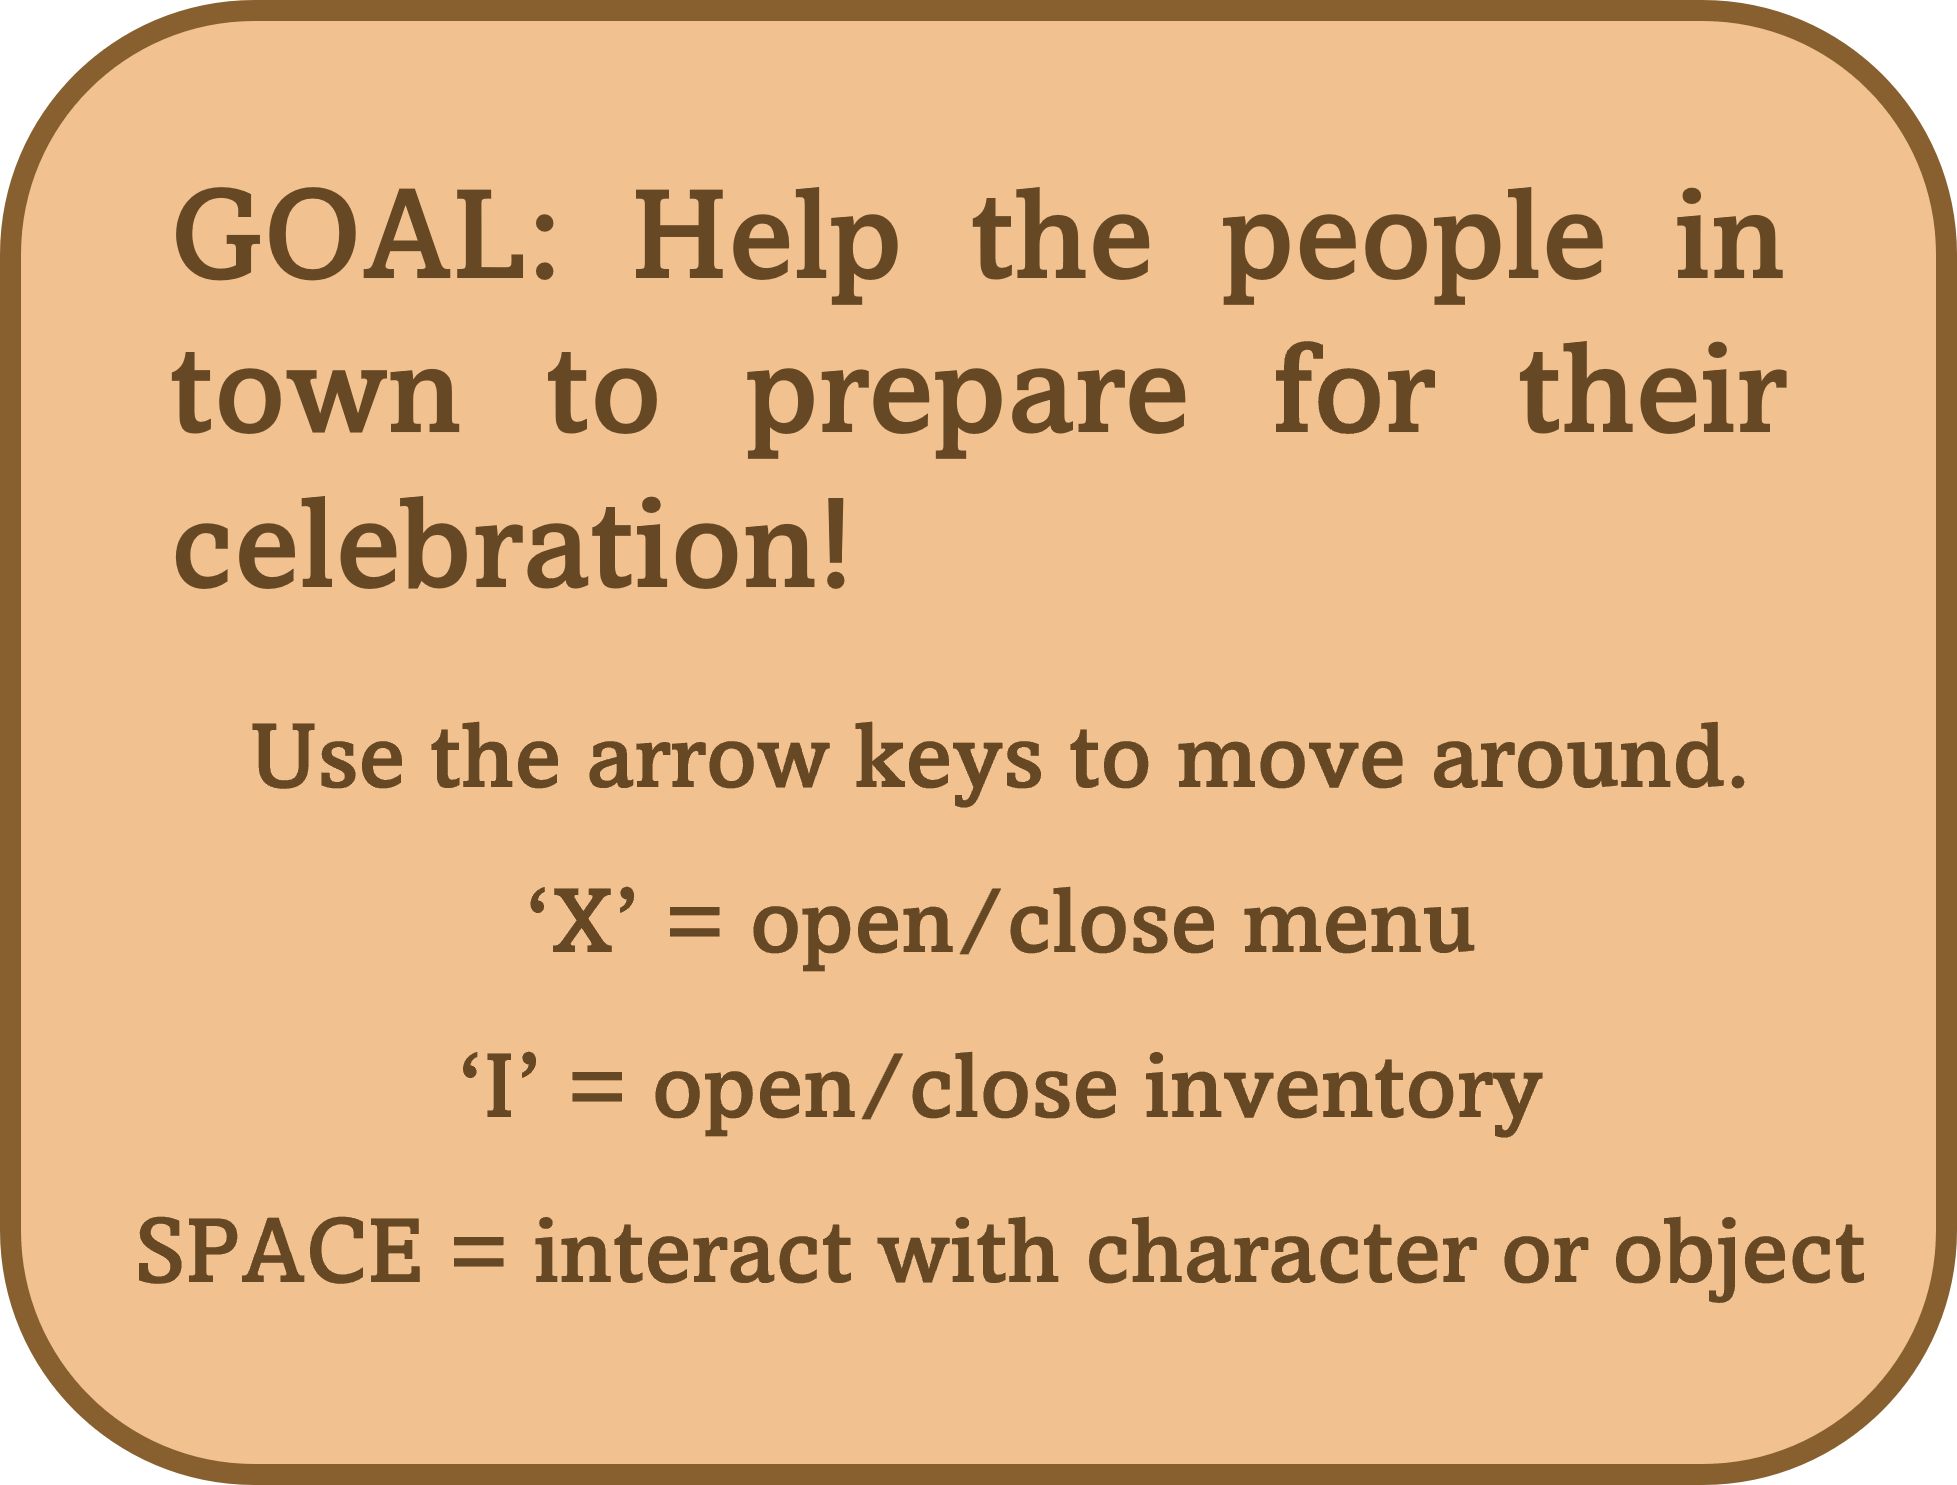
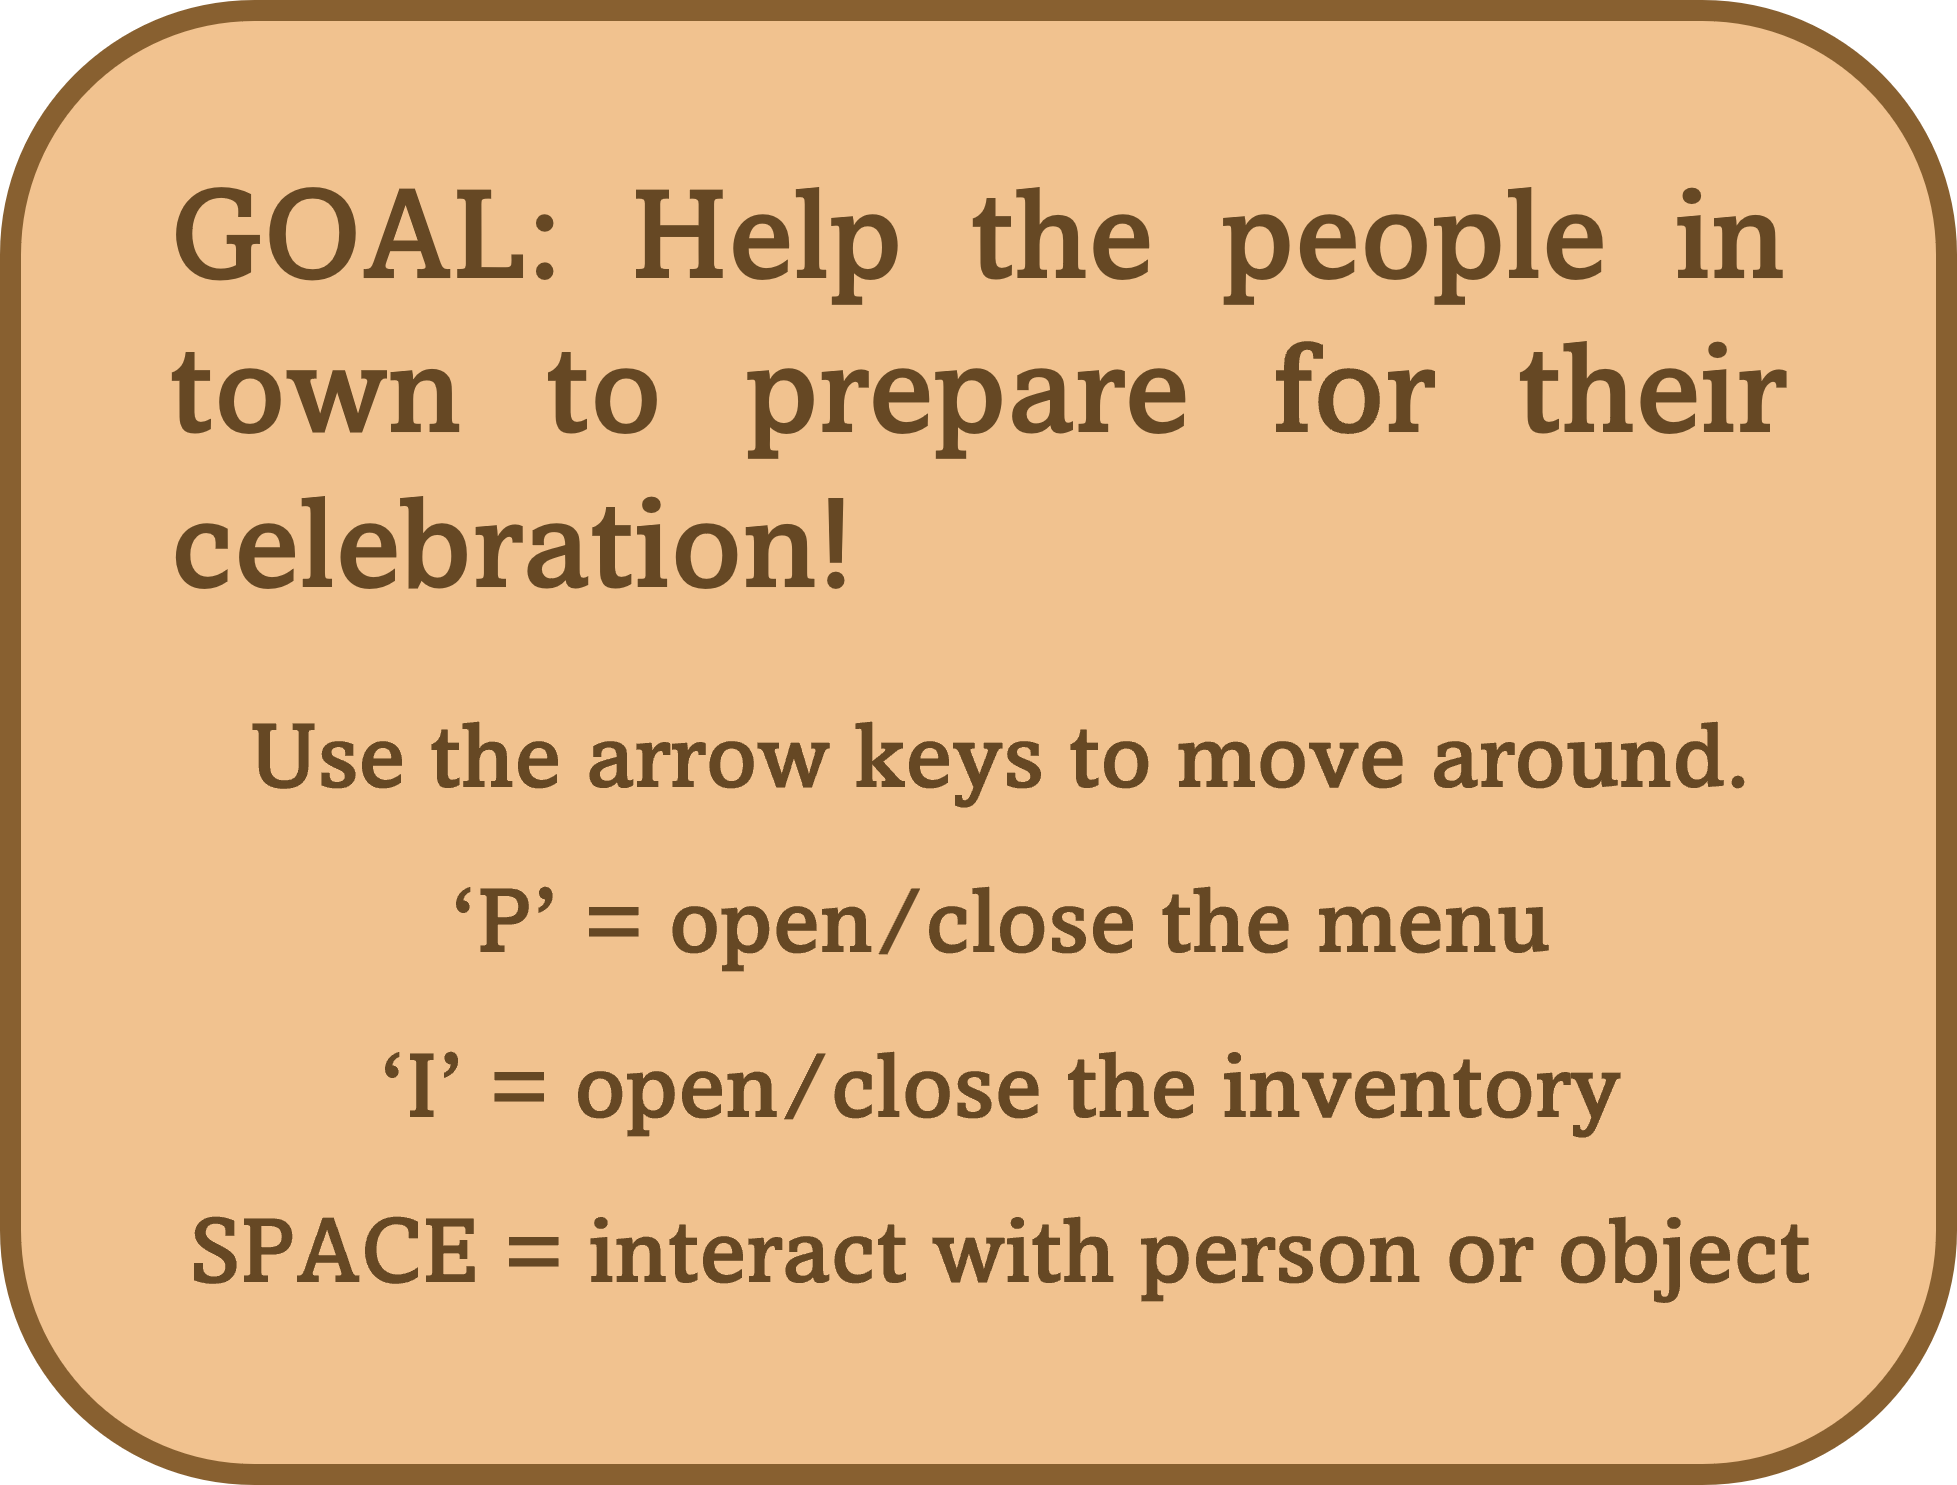
adding pause menu to both minigames

Changed region(s): [[0.0623, 0.8054, 0.9663, 0.8673], [0.187, 0.7125, 0.8416, 0.7744], [0.2182, 0.5886, 0.8104, 0.6505]]

diff --git a/software major project/Assets/scripts/pauseMenu.cs b/software major project/Assets/scripts/pauseMenu.cs
@@ -9,7 +9,7 @@ public class pauseMenu : MonoBehaviour
 
     public static bool gameIsPaused = false;
     public static bool instructionsOpen = false;
-    int currentScene = 1;
+    int currentScene;
 
     //canvases containing pause menu UI elements
     public GameObject pauseMenuUI;
@@ -17,9 +17,8 @@ public class pauseMenu : MonoBehaviour
 
     private void Start()
     {
-        Debug.Log("starting...");
         Time.timeScale = 1f;
-        gameIsPaused = false;
+        currentScene = SceneManager.GetActiveScene().buildIndex;
     }
 
     // Update is called once per frame
@@ -47,13 +46,16 @@ public class pauseMenu : MonoBehaviour
 
         if (Input.GetKeyDown("a"))
         {
-            if (instructionsOpen == true)
+            if (gameIsPaused == true || instructionsOpen == true)
             {
-                PauseGame();
-            }
-            else
-            {
-                ShowInstructions();
+                if (instructionsOpen == true)
+                {
+                    PauseGame();
+                }
+                else
+                {
+                    ShowInstructions();
+                }
             }
         }
     }
@@ -78,7 +80,6 @@ public class pauseMenu : MonoBehaviour
 
         //freezes the game (stops time) while the menu is open
         Time.timeScale = 0f;
-    
         gameIsPaused = true;
         instructionsOpen = false;
     }
